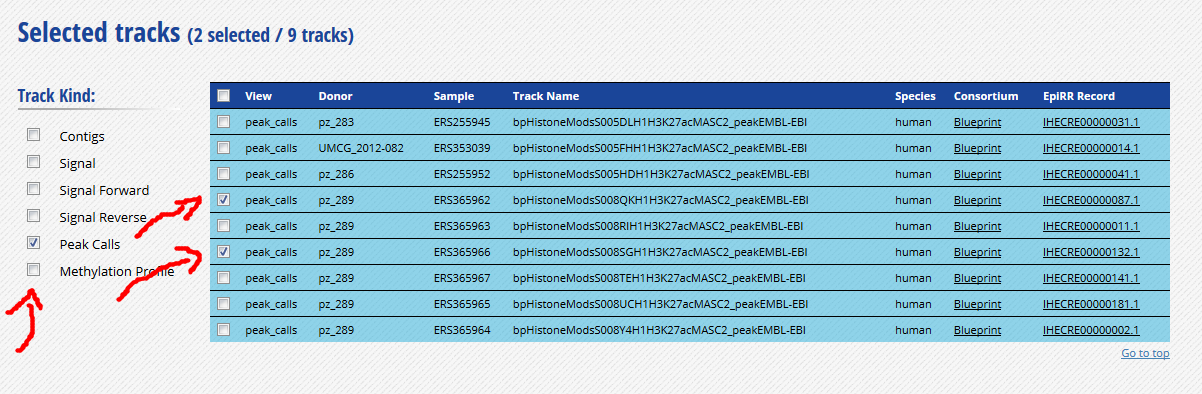
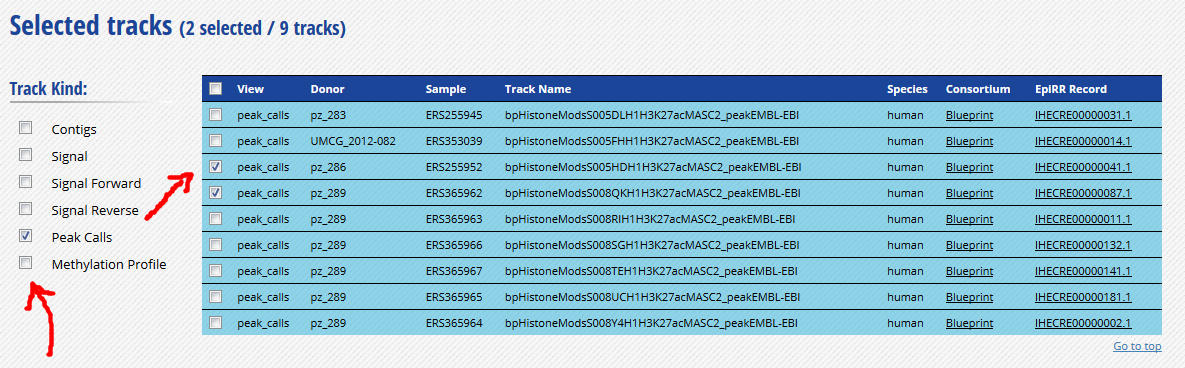
Improved comments.

Changed region(s): [[0.0, 0.1793, 0.9992, 0.9565], [0.0, 0.0299, 0.3122, 0.1196], [0.0, 0.2092, 0.0937, 0.269]]

diff --git a/2016_workshops/epigenomics/module4_lab.md b/2016_workshops/epigenomics/module4_lab.md
@@ -166,7 +166,7 @@ Next, we will try to identify GO terms connected to ChIP-Seq peaks calls using G
 
 ![img](https://bioinformatics-ca.github.io/2016_workshops/epigenomics/img/module4_GREAT_bone_marrow_h3k27ac.png)
 
-* For this exercise, we will download only two of the bigbeds for available datasets. Pick up the one for the "ERS255952" and "ERS365966" sample.
+* For this exercise, we will download only two of the bigbeds for available datasets. Pick up the one for the "ERS255952" and "ERS365962" sample.
 
 ![img](https://bioinformatics-ca.github.io/2016_workshops/epigenomics/img/module4_GREAT_select_Blueprint_dataset.png)
 
